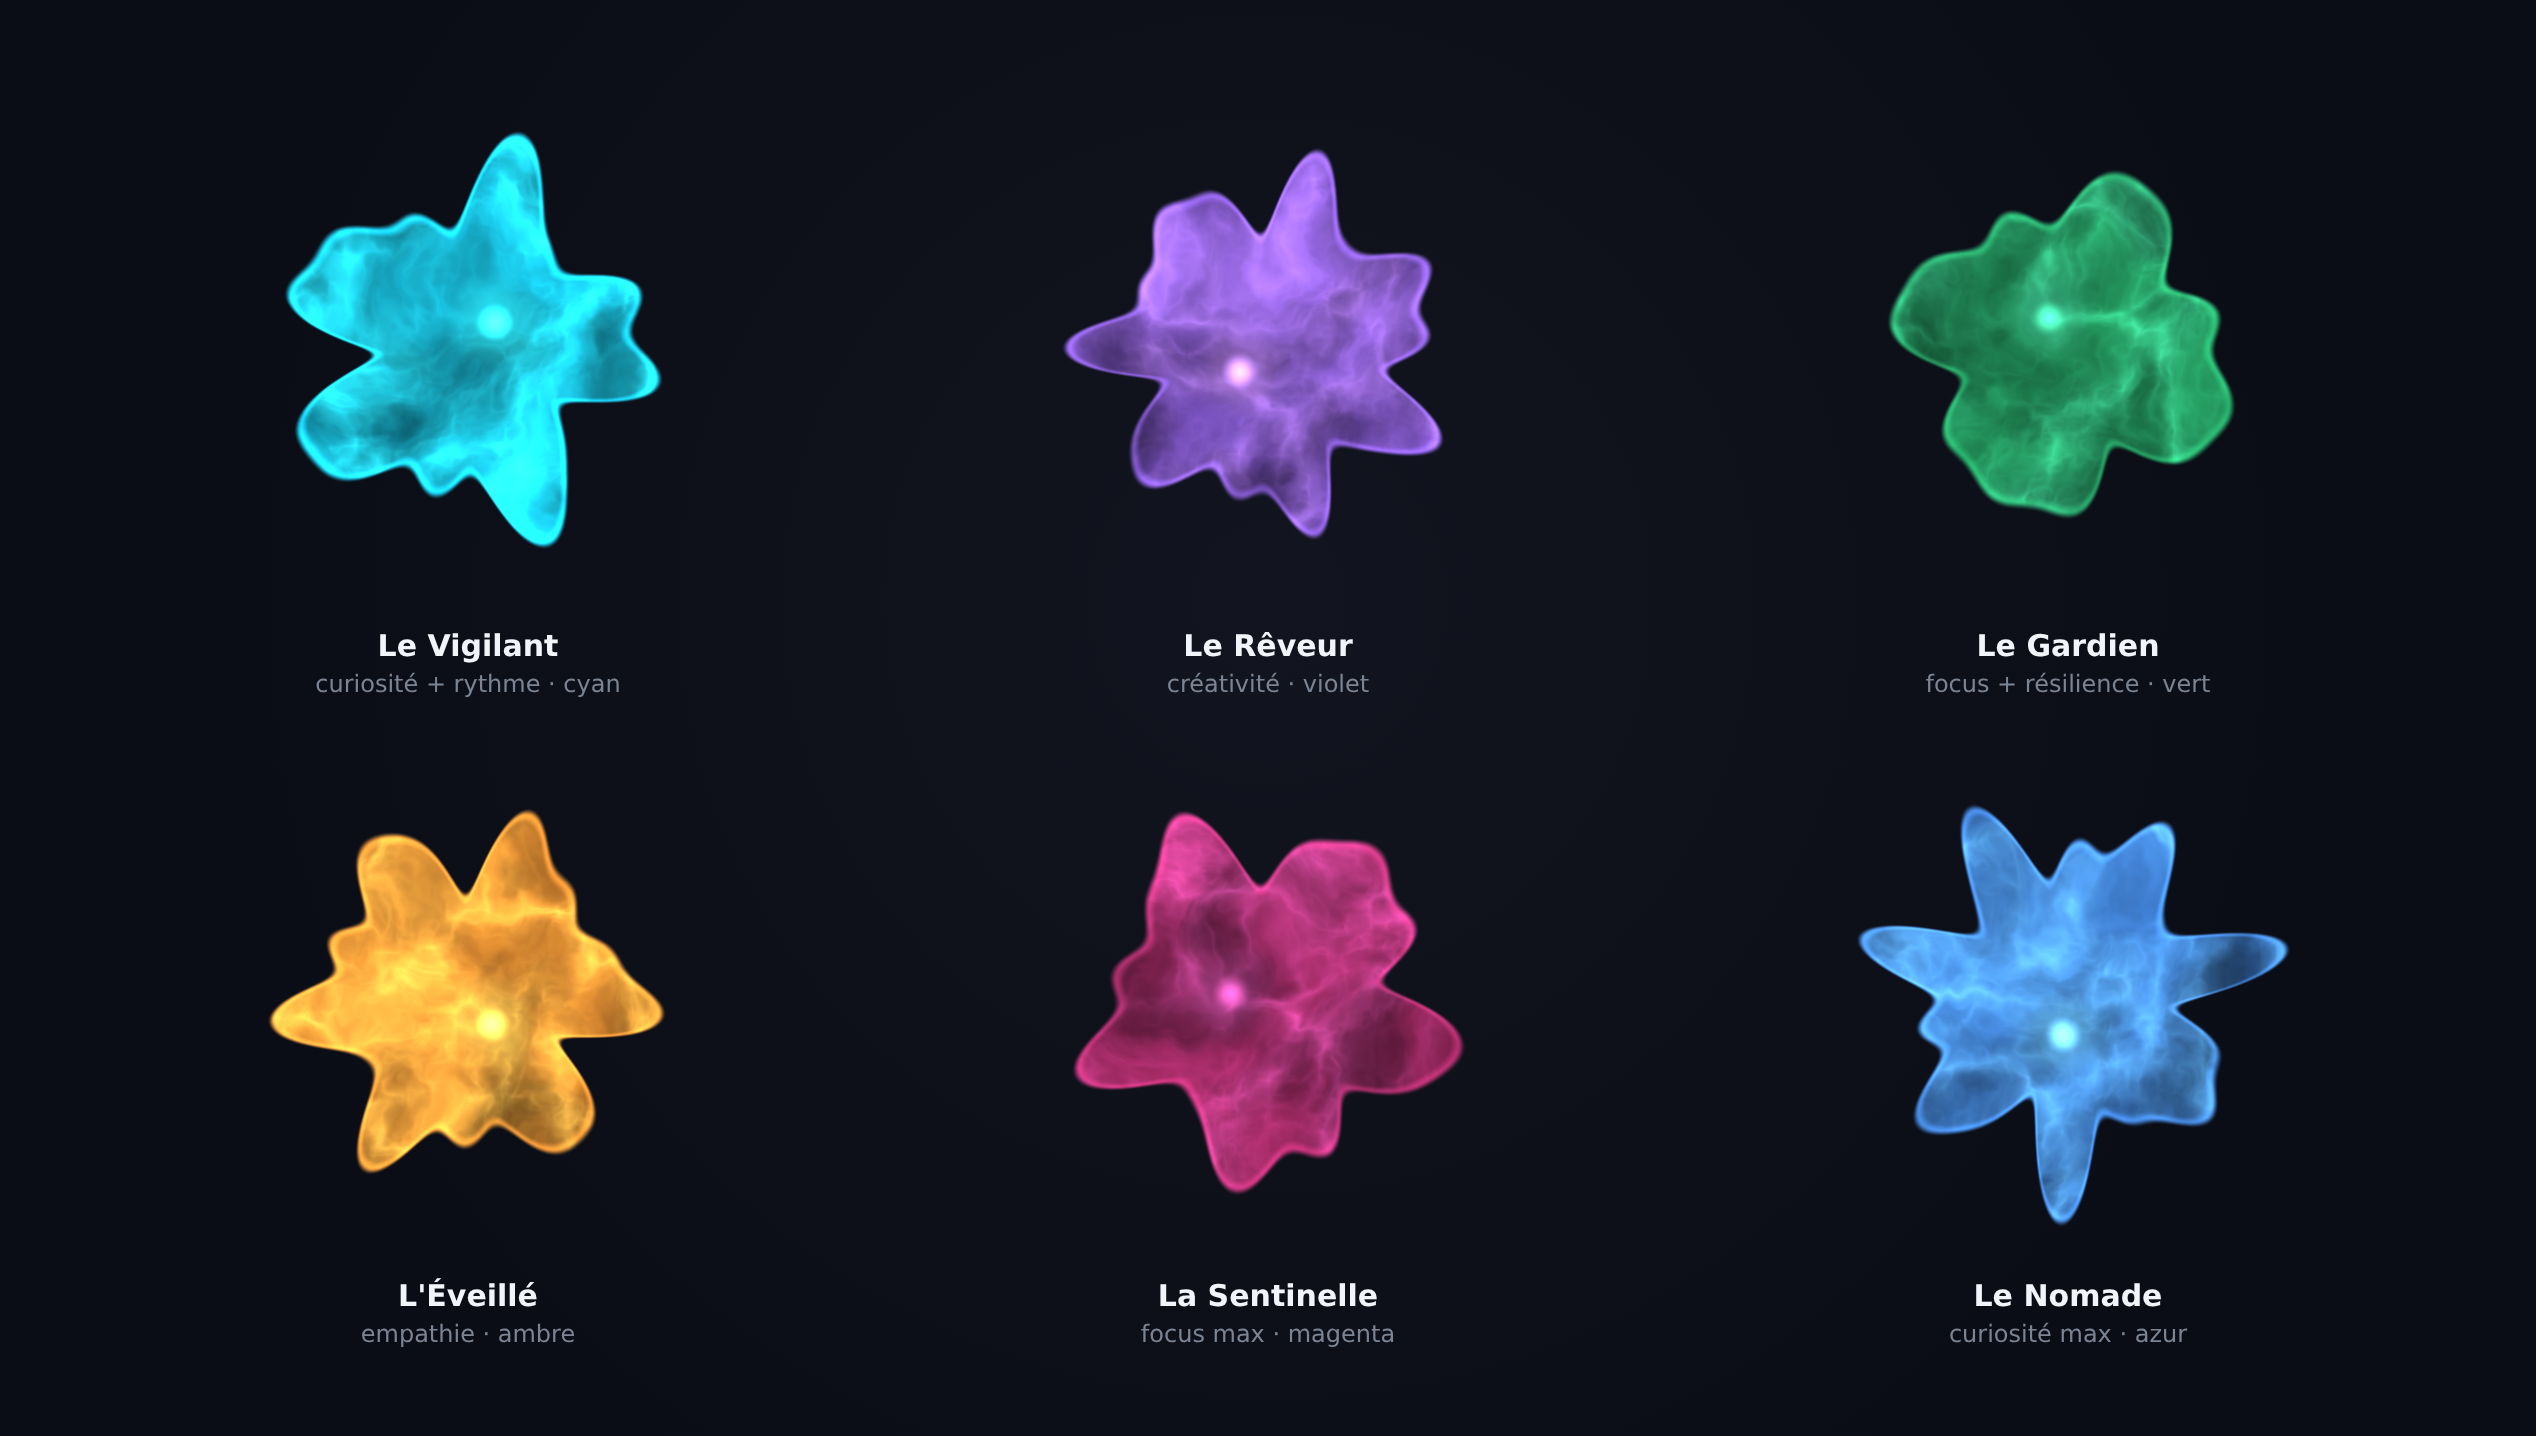
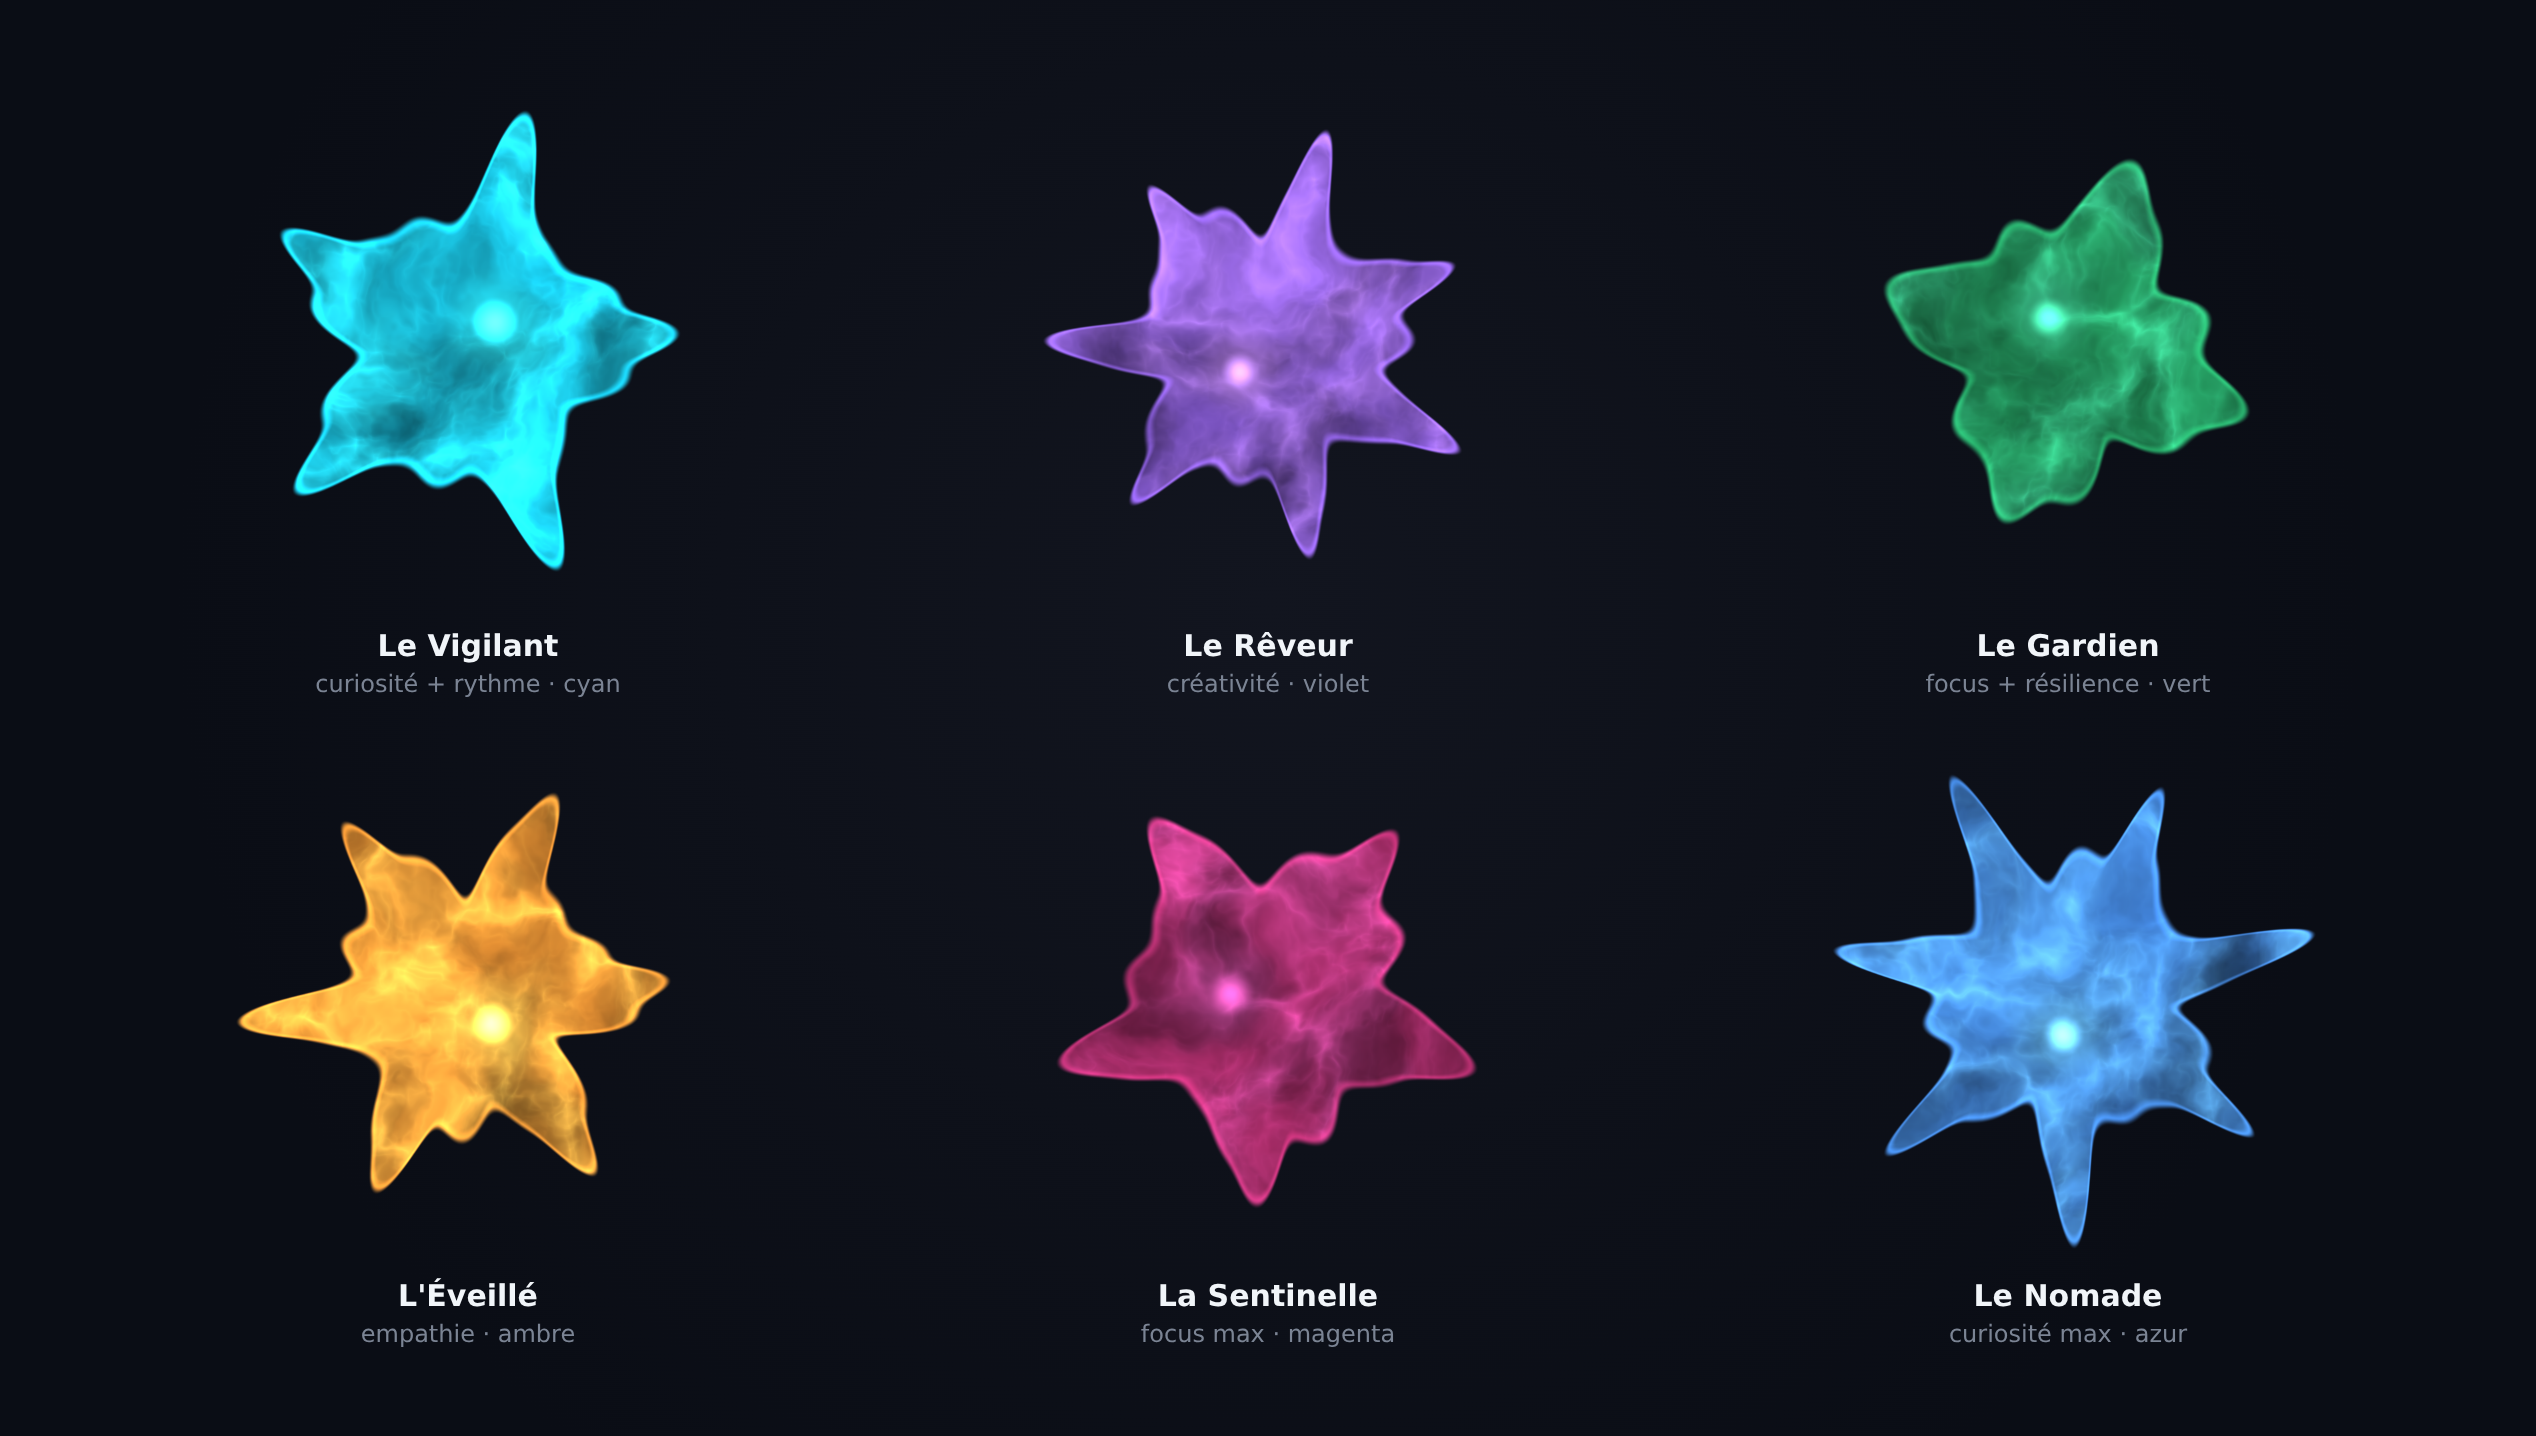
feat: more expressive organism silhouettes — tentacles & energy-driven nucleus
Refine the fractal organism per feedback (point 2):

- Pointed tentacles: narrow outward spikes via pow(max(0,sin),5) whose
  length scales with the curiosity trait — high-curiosity organisms are
  visibly tentacular, low-curiosity ones stay rounded, so silhouettes
  read as distinct creatures at a glance
- Base undulation amplitude now tied to empathy (gentle organic wobble)
- Nucleus responds to energy: halo size and core brightness both scale
  with u_energy (plus a rhythm-driven pulse and a small seed offset),
  so a lively organism has a bright pulsing core and a dim one is subtle

README gallery regenerated from the real shader. Renderer tests still
pass (12).

Claude-Session: https://claude.ai/code/session_01NTBzRu154G5yvQajkq9dM1

diff --git a/src/shared/rendering/OrganismRenderer.ts b/src/shared/rendering/OrganismRenderer.ts
@@ -129,12 +129,17 @@ void main() {
 
   // --- Silhouette de membrane unique, semée par l'ADN ---
   float lobes = 3.0 + floor(u_traits[4] * 5.0);        // créativité -> nombre de lobes
+  float phase = seed * 6.28 + t * 0.22;
+  // Ondulation organique de base (amplitude douce liée à l'empathie)
   float wob =
-      0.11 * sin(lobes * ang + seed * 6.28 + t * 0.25)
-    + 0.06 * sin((lobes + 3.0) * ang - seed * 17.0 - t * 0.18)
-    + 0.035 * sin((lobes + 7.0) * ang + seed * 33.0);
-  wob *= (0.55 + u_traits[0] * 0.7);                    // curiosité -> amplitude
-  float R = 0.60 + wob;
+      0.085 * sin(lobes * ang + phase)
+    + 0.05 * sin((lobes + 3.0) * ang - seed * 17.0 - t * 0.16)
+    + 0.03 * sin((lobes + 7.0) * ang + seed * 33.0);
+  wob *= (0.6 + u_traits[3] * 0.5);
+  // Tentacules pointus : pics étroits vers l'extérieur, longueur = curiosité
+  float spike = pow(max(0.0, sin(lobes * ang + phase)), 5.0);
+  float tentacle = spike * (0.04 + u_traits[0] * 0.22);
+  float R = 0.55 + wob + tentacle;
 
   float d = r - R;                                     // < 0 : à l'intérieur
   float mask = smoothstep(0.015, -0.02, d);
@@ -145,17 +150,20 @@ void main() {
   float proto = fbm(pos * 3.2 + q * 1.8 + seed * 10.0);
   float veins = pow(ridged(pos * 3.6 + q * 1.2 + seed * 4.0), 2.2);
 
-  // --- Noyau décentré, propre à l'organisme ---
+  // --- Noyau décentré : taille et éclat indexés sur l'énergie ---
   vec2 nuc = vec2(cos(seed * 6.28), sin(seed * 6.28)) * 0.14;
   float nd = length(pos - nuc);
-  float nucleus = smoothstep(0.22, 0.0, nd);
-  float nucleusCore = smoothstep(0.08, 0.0, nd);
+  float nucSize  = 0.15 + u_energy * 0.11 + (seed - 0.5) * 0.03;
+  float coreSize = 0.045 + u_energy * 0.06;
+  float nucPulse = 0.82 + 0.18 * sin(t * (2.0 + u_traits[2] * 3.0));
+  float nucleus = smoothstep(nucSize, 0.0, nd);
+  float nucleusCore = smoothstep(coreSize, 0.0, nd) * nucPulse;
 
   // --- Composition couleur ---
   vec3 col = mix(u_secondaryColor, u_primaryColor, clamp(proto * 1.1, 0.0, 1.0));
   col += u_accentColor * veins * (0.35 + u_traits[1] * 0.5);   // focus -> filaments nets
   col = mix(col, u_accentColor, nucleus * 0.45);
-  col += u_accentColor * nucleusCore * 0.9;                    // noyau lumineux
+  col += u_accentColor * nucleusCore * (0.7 + u_energy * 0.7); // noyau lumineux (éclat = énergie)
 
   // Anneau de membrane : contour vivant, pas un halo flou
   float rim = smoothstep(0.05, 0.0, abs(d));
